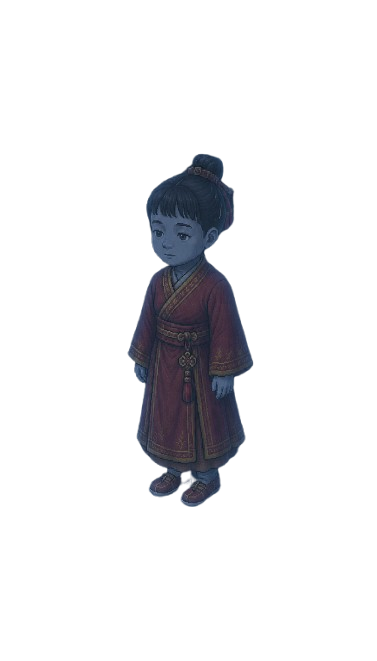
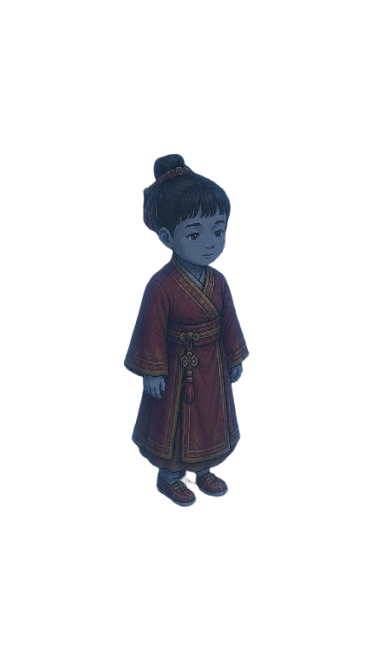
調整怪物的部分，為了未來吃spritesheet做準備

Changed region(s): [[0.321, 0.2118, 0.6711, 0.7867]]

diff --git a/DipanProj_Main/Assets/Scripts/PlayerController.cs b/DipanProj_Main/Assets/Scripts/PlayerController.cs
@@ -71,6 +71,11 @@ public class PlayerController : MonoBehaviour, IDamageable
     public string Bloodline = "Base";
     [Tooltip("idle/walk/dead 的逐格播放幀率（留空走預設 12）")]
     public float PlayerAnimFPS = 12f;
+    [Tooltip("角色站立顯示高度（世界單位）。預設 1.95 ≈ 舊 500px 尺寸；系統依 idle 可見高度自動換算縮放，" +
+             "換不同解析度的圖（如 256 序列圖）也維持同樣大小。<=0 用 1.95。想整體放大/縮小角色就調這個。")]
+    public float CharacterWorldHeight = 1.95f;
+    [Tooltip("來源序列圖角色面朝右 = true（AutoSprite 輸出）；面朝左 = false。決定移動/瞄準時的 flipX 對應。")]
+    public bool SpriteSourceFacesRight = true;
 
     void Start()
     {
@@ -85,17 +90,14 @@ public class PlayerController : MonoBehaviour, IDamageable
             _spriteRenderer = GetComponentInChildren<SpriteRenderer>();
         }
 
-        if (_spriteRenderer != null)
-        {
-            _spriteRenderer.flipX = isFacingRightByDefault;
-        }
+        SetFacing(isFacingRightByDefault);   // 初始面向（依來源圖朝向換算 flipX）
 
         // 路線 B：程式逐格動畫（血統換外型）。停用 Unity Animator，改由 PlayerAnimator 驅動 sprite，
         // 避免兩套同時換圖打架（同怪物 route B 的做法）。idle/walk 循環、dead 一次性定格。
         if (_animator != null) _animator.enabled = false;
         _playerAnim = GetComponent<PlayerAnimator>();
         if (_playerAnim == null) _playerAnim = gameObject.AddComponent<PlayerAnimator>();
-        _playerAnim.Setup(Bloodline, PlayerAnimFPS, MoveSpeed);
+        _playerAnim.Setup(Bloodline, PlayerAnimFPS, MoveSpeed, CharacterWorldHeight);
 
         // HP/MP 數值層：每次進遊戲都以 Inspector 值滿血滿魔初始化（HP/MP 刻意不存檔，方便測試）。見 readme/COMBAT.md §7。
         _stats = gameObject.GetComponent<CombatStats>();
@@ -171,14 +173,14 @@ public class PlayerController : MonoBehaviour, IDamageable
             {
                 Vector3 mousePos = Camera.main.ScreenToWorldPoint(Input.mousePosition);
                 float mouseDiffX = mousePos.x - transform.position.x;
-                
-                if (mouseDiffX < 0) _spriteRenderer.flipX = false;
-                else if (mouseDiffX > 0) _spriteRenderer.flipX = true;
+
+                if (mouseDiffX < 0) SetFacing(false);
+                else if (mouseDiffX > 0) SetFacing(true);
             }
             else if (Mathf.Abs(h) > 0.01f)
             {
-                if (h < 0) _spriteRenderer.flipX = false;
-                else if (h > 0) _spriteRenderer.flipX = true;
+                if (h < 0) SetFacing(false);
+                else if (h > 0) SetFacing(true);
             }
         }
 
@@ -205,6 +207,15 @@ public class PlayerController : MonoBehaviour, IDamageable
         // 路線 B：移動→走路、靜止→發呆（死亡時 Update 已提前 return，不會蓋掉 Dead 狀態）
         if (_playerAnim != null)
             _playerAnim.SetState(currentSpeed > 0.1f ? PlayerAnimator.State.Walk : PlayerAnimator.State.Idle, currentSpeed);
+    }
+
+    // 依「來源圖朝向」把欲面對方向換成 flipX：
+    //   來源朝右(SpriteSourceFacesRight=true)：面右=不翻(flipX=false)、面左=翻(true)。
+    //   來源朝左：相反。所以換了朝向不同的素材，只要改 SpriteSourceFacesRight 一個旗標。
+    private void SetFacing(bool faceRight)
+    {
+        if (_spriteRenderer != null)
+            _spriteRenderer.flipX = (faceRight != SpriteSourceFacesRight);
     }
 
     private void OnDestroy()
@@ -1361,6 +1372,6 @@ public class PlayerController : MonoBehaviour, IDamageable
     {
         Bloodline = bloodline;
         if (_playerAnim == null) _playerAnim = gameObject.AddComponent<PlayerAnimator>();
-        _playerAnim.Setup(Bloodline, PlayerAnimFPS, MoveSpeed);
+        _playerAnim.Setup(Bloodline, PlayerAnimFPS, MoveSpeed, CharacterWorldHeight);
     }
 }

diff --git a/DipanProj_Main/Assets/Scripts/PlayerSpriteLibrary.cs b/DipanProj_Main/Assets/Scripts/PlayerSpriteLibrary.cs
@@ -61,26 +61,47 @@ public class PlayerSpriteLibrary
         return _byTail.ContainsKey(k);
     }
 
-    /// <summary>取某血統某動作的幀（依序）。單張資料夾 → 長度 1（靜態姿勢）；找不到回 null。結果快取。</summary>
-    public Sprite[] GetFrames(string bloodline, string state)
+    /// <summary>
+    /// 取某血統某動作的幀（依序）。單張資料夾 → 長度 1（靜態姿勢）；找不到回 null。結果快取。
+    /// <paramref name="tileSize"/> 決定顯示大小（PPU=256/tileSize）：256px 幀以 tileSize=1 → 1 世界單位，
+    /// 用較大值把低解析度的圖放大到想要的角色尺寸（見 PlayerAnimator 的自動換算）。
+    /// </summary>
+    public Sprite[] GetFrames(string bloodline, string state, float tileSize = 1f)
     {
-        string k = Key(bloodline, state);
-        if (_frameCache.TryGetValue(k, out var cached)) return cached;
+        string tail = Key(bloodline, state);
+        string cacheKey = $"{tail}|{tileSize}";
+        if (_frameCache.TryGetValue(cacheKey, out var cached)) return cached;
 
         Sprite[] frames = null;
-        if (_byTail.TryGetValue(k, out var item) && _loader != null)
+        if (_byTail.TryGetValue(tail, out var item) && _loader != null)
         {
             if (item.IsAnimated)
             {
-                frames = _loader.GetAnimationFrames(item, 1f);
+                frames = _loader.GetAnimationFrames(item, tileSize);
             }
             else
             {
-                var sp = _loader.GetWholeSprite(item, 1f);
+                var sp = _loader.GetWholeSprite(item, tileSize);
                 if (sp != null) frames = new[] { sp };
             }
         }
-        _frameCache[k] = frames;
+        _frameCache[cacheKey] = frames;
         return frames;
+    }
+
+    /// <summary>
+    /// 取某血統某動作（代表幀＝該動作第一幀）的「不透明像素貼合框」：size/offset 為世界單位 @ PPU 256
+    /// （tileSize 1）。用來把不同解析度/留白的圖換算成一致的角色顯示高度。沿用 MapSpriteLoader.GetAlphaLocalBox。
+    /// </summary>
+    public bool TryGetVisibleBox(string bloodline, string state, out Vector2 size, out Vector2 offset)
+    {
+        size = default; offset = default;
+        string tail = Key(bloodline, state);
+        if (_loader == null || !_byTail.TryGetValue(tail, out var item)) return false;
+        var box = _loader.GetAlphaLocalBox(item, 1f);
+        if (!box.ok) return false;
+        size = box.size;
+        offset = box.offset;
+        return true;
     }
 }

diff --git a/DipanProj_Main/Assets/Scripts/PlayerAnimator.cs b/DipanProj_Main/Assets/Scripts/PlayerAnimator.cs
@@ -30,18 +30,34 @@ public class PlayerAnimator : MonoBehaviour
     float _currentSpeed;
     bool _oneShotDone;   // 一次性動作（dead/attack）是否已播到最後一幀定格
 
-    /// <summary>依血統載入各動作的幀。fps≤0 用 12、referenceSpeed≤0 用 5。</summary>
-    public void Setup(string bloodline, float fps, float referenceSpeed)
+    /// <summary>
+    /// 依血統載入各動作的幀。fps≤0 用 12、referenceSpeed≤0 用 5。
+    /// <paramref name="targetHeight"/> = 角色站立顯示高度（世界單位，≤0 用 1.95）：依 idle（取不到改 walk）
+    /// 的可見像素高度自動換算每張的縮放(tileSize)，與來源解析度/留白無關，所有動作同一縮放（比例一致，
+    /// dead 仍維持較矮的躺姿）。
+    /// </summary>
+    public void Setup(string bloodline, float fps, float referenceSpeed, float targetHeight = 1.95f)
     {
         _sr = GetComponent<SpriteRenderer>();
         BaseFps = fps > 0f ? fps : 12f;
         ReferenceSpeed = referenceSpeed > 0f ? referenceSpeed : 5f;
+        if (targetHeight <= 0f) targetHeight = 1.95f;
 
         var lib = PlayerSpriteLibrary.Instance;
-        _idle = lib.GetFrames(bloodline, "idle");
-        _walk = lib.GetFrames(bloodline, "walk");
-        _dead = lib.GetFrames(bloodline, "dead");
-        _attack = lib.GetFrames(bloodline, "attack");
+
+        // 自動換算顯示縮放：用 idle（取不到改 walk）的「可見高度」把幀放大到 targetHeight 世界高。
+        // box.size.y 是世界單位 @ tileSize 1（= 可見像素 / 256）；tileSize = targetHeight / box.size.y。
+        float tileSize = 1f;
+        if (lib.TryGetVisibleBox(bloodline, "idle", out var vbox, out _) && vbox.y > 0.0001f)
+            tileSize = targetHeight / vbox.y;
+        else if (lib.TryGetVisibleBox(bloodline, "walk", out var wbox, out _) && wbox.y > 0.0001f)
+            tileSize = targetHeight / wbox.y;
+        tileSize = Mathf.Clamp(tileSize, 0.1f, 30f);
+
+        _idle = lib.GetFrames(bloodline, "idle", tileSize);
+        _walk = lib.GetFrames(bloodline, "walk", tileSize);
+        _dead = lib.GetFrames(bloodline, "dead", tileSize);
+        _attack = lib.GetFrames(bloodline, "attack", tileSize);
 
         if (_idle == null && _walk != null) _idle = _walk;   // 沒給 idle 就用 walk 當待機後備
 

diff --git a/DipanProj_Main/Assets/Scripts/AI/MonsterController.cs b/DipanProj_Main/Assets/Scripts/AI/MonsterController.cs
@@ -15,7 +15,8 @@ public class MonsterController : MonoBehaviour, IDamageable, ICombatModifiers
     public string MonsterName;
     public float MaxHealth = 50f;
     public float HitboxPadding = 0.2f;
-    public bool IsFacingRightByDefault = true;
+    [Tooltip("來源序列圖角色面朝右 = true（AutoSprite 輸出，與 PlayerController 同）；面朝左 = false。決定 flipX 對應。")]
+    public bool SpriteSourceFacesRight = true;
     public float AnimFPS = 8f;           // 程式動畫播放幀率（CSV: AnimFPS，留空 = 8）
     public float AttackRange = 1.3f;     // 進入此距離且有 attack 圖 → 播攻擊動畫（略大於 ChaseBrain.StopDistance）
     private float _currentHealth;
@@ -224,12 +225,12 @@ public class MonsterController : MonoBehaviour, IDamageable, ICombatModifiers
         // 舊路線後備：若這隻怪用的是自帶 Unity Animator 的 prefab，沿用 isMoving 驅動。
         if (_animator != null) _animator.SetBool("isMoving", moving);
 
-        // 2. 左右翻轉 (Flip)：根據玩家位置與圖片原始朝向決定（與動畫系統無關）
+        // 2. 左右翻轉 (Flip)：依玩家位置與「來源圖朝向」決定（與動畫系統無關；同 PlayerController.SetFacing）。
+        //    來源朝右(SpriteSourceFacesRight=true)：面右=不翻(flipX=false)、面左=翻(true)；來源朝左：相反。
         if (player != null)
         {
-            bool playerIsOnRight = player.position.x > transform.position.x;
-            // IsFacingRightByDefault = true 代表圖片原始朝左，需要 flipX 才能朝右
-            _spriteRenderer.flipX = IsFacingRightByDefault ? playerIsOnRight : !playerIsOnRight;
+            bool faceRight = player.position.x > transform.position.x;
+            _spriteRenderer.flipX = (faceRight != SpriteSourceFacesRight);
         }
     }
 

diff --git a/DipanProj_Main/Assets/Scripts/AI/MonsterSpawner.cs b/DipanProj_Main/Assets/Scripts/AI/MonsterSpawner.cs
@@ -173,8 +173,14 @@ public class MonsterSpawner : MonoBehaviour
         SpriteRenderer sr = monsterGo.GetComponentInChildren<SpriteRenderer>();
         if (sr == null) return;
 
+        // 依「來源圖朝向」換算（同 MonsterController.HandleVisuals）：面右=玩家在右。
+        // 來源朝右 → 面右不翻；來源朝左 → 面右才翻。MonsterController 的 _spriteRenderer 此時可能還沒備好，
+        // 故直接讀其欄位、設這顆 sr（生成瞬間先擺對，之後每幀由 MonsterController 維持）。
+        var mc = monsterGo.GetComponent<MonsterController>();
+        bool srcFacesRight = (mc == null) || mc.SpriteSourceFacesRight;
         float diffX = playerObj.transform.position.x - monsterGo.transform.position.x;
-        sr.flipX = diffX > 0;
+        bool faceRight = diffX > 0;
+        sr.flipX = (faceRight != srcFacesRight);
     }
 
     // 🟢 繪製生成區域，方便在編輯器中確認範圍是否有超出圍牆
